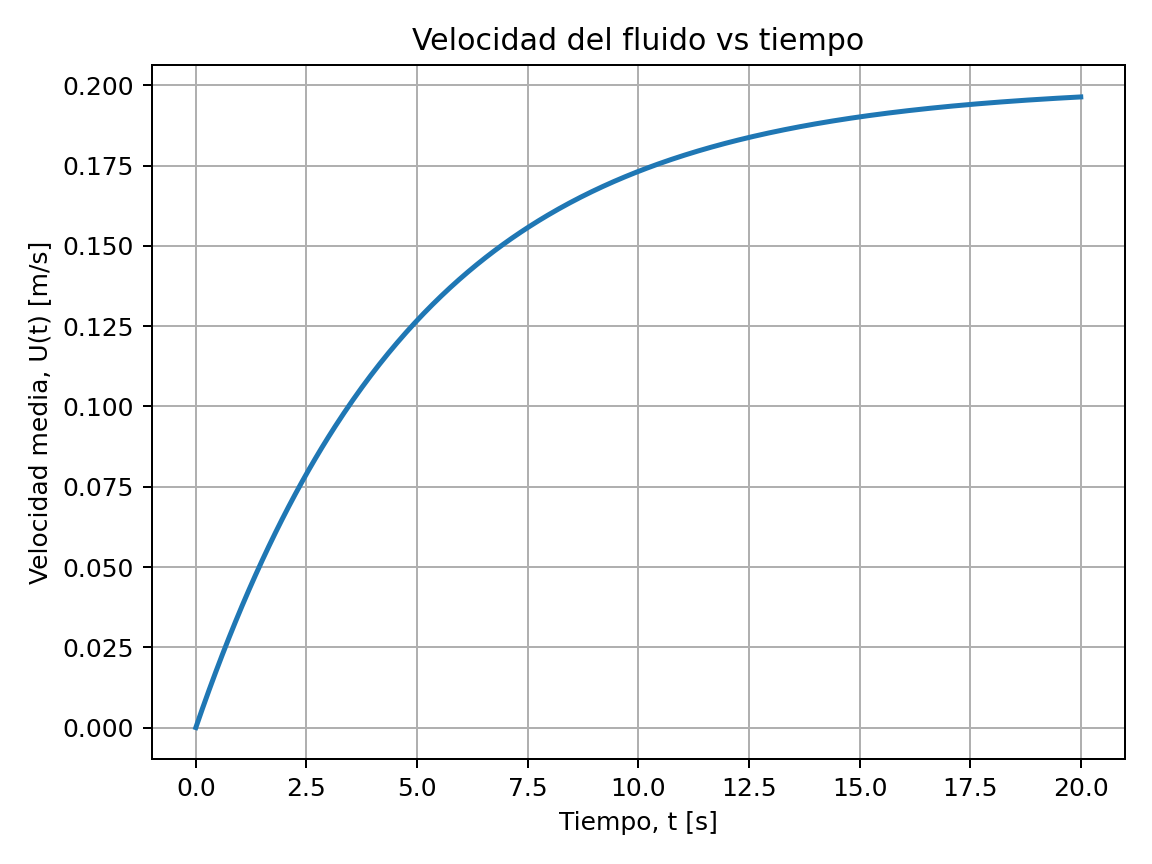
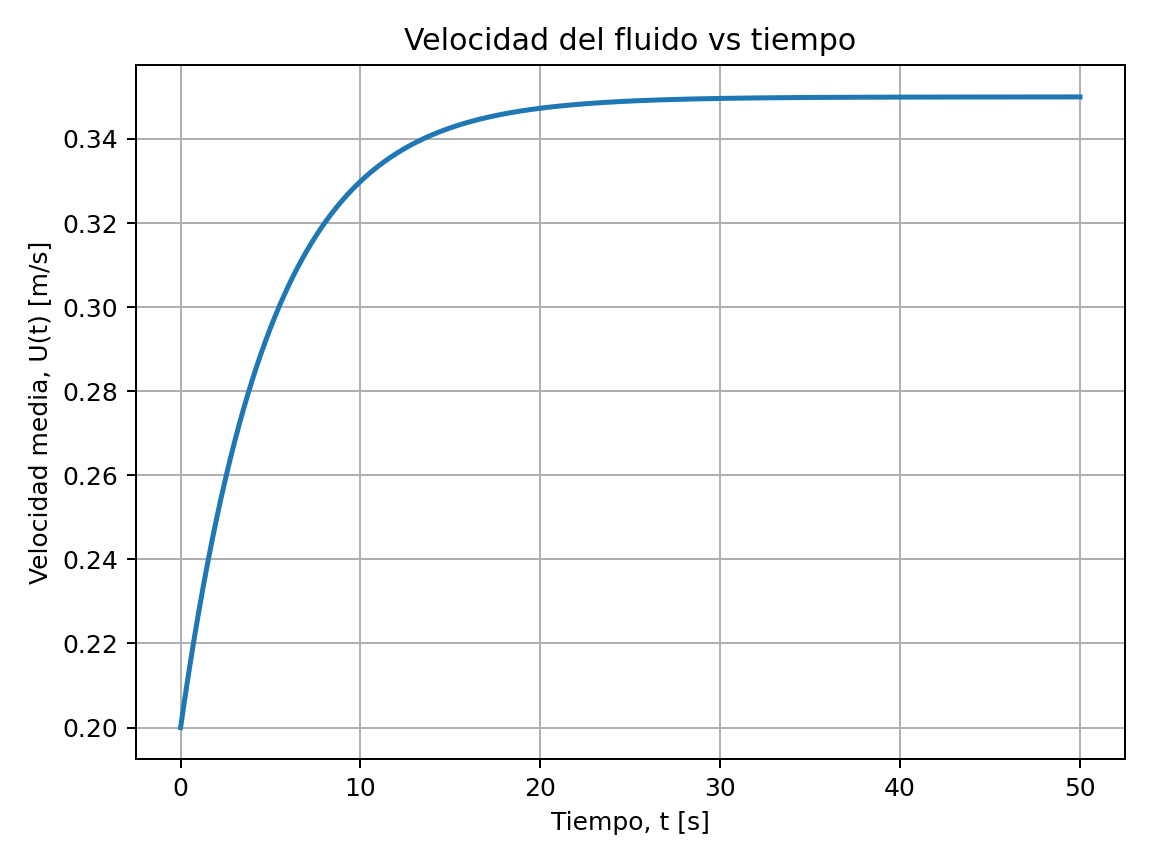
Wuuuu

diff --git a/Entrega 3/sim_logic.py b/Entrega 3/sim_logic.py
@@ -1,22 +1,19 @@
 # sim_logic.py
-# Modelo 0-D (mezcla bien agitada) con ventilador dinámico:
+# Modelo 0-D (mezcla bien agitada) con ventilador dinámico en velocidad:
 #   V = Lx*Ly (por unidad de profundidad)
-#   Q(t): caudal 2D del ventilador con rampa de 1er orden
-#     dQ/dt = (Q_target - Q)/tau_s
-#   U(t) = Q(t) / Ly
-#   Ecuación para fracción másica promedio c(t):
-#     d/dt (rho*V*c) = rho*Q(t)*(c_in - c) + m_dot(t)
-#   => dc/dt = (Q(t)/V)*(c_in - c) + m_dot(t)/(rho*V)
+#   Q(t) = U(t) * Ly
+#   dU/dt = (U_target - U)/tau_s     (si hay bloque "fan")
+#   c'(t) = (Q(t)/V)*(c_in - c) + m_dot(t)/(rho*V)
 
 import json
 import numpy as np
 
-def load_params(path="params.json"):
+def load_params(path="Entrega 3/params.json"):
     with open(path, "r") as f:
         return json.load(f)
 
 def gate_spray(params, t):
-    """1 si el spray está ON en el tiempo t; 0 si está OFF."""
+    """1 si el spray está ON en t; 0 si OFF. Si no hay 'spray', está siempre ON."""
     sp = params.get("spray", None)
     if sp is None:
         return 1.0
@@ -34,9 +31,9 @@ def simulate(params_path="params.json"):
     # Geometría y propiedades
     Lx = float(P["Lx"]); Ly = float(P["Ly"])
     V  = Lx * Ly                         # m^3 por unidad de profundidad (2D)
-    rho = float(P.get("rho", 1.2))       # kg/m^3 (aire aprox)
+    rho = float(P.get("rho", 1.2))       # kg/m^3 (aire aprox.)
 
-    # Ingreso / fuente
+    # Entrada / fuente
     c_in  = float(P.get("c_in", 0.0))
     m_dot = float(P.get("m_dot", 0.0))   # kg/s (2D)
 
@@ -45,15 +42,25 @@ def simulate(params_path="params.json"):
     t_end = float(P["time"]["t_end"])
     nsteps = int(np.ceil(t_end / dt))
 
-    # Dinámica del ventilador (si no hay bloque "fan", Q es constante)
+    # Dinámica del ventilador: preferir U0/U_target (m/s); fallback a Q0/Q_target (m^2/s)
     if "fan" in P:
-        Q  = float(P["fan"].get("Q0", 0.0))         # m^2/s (estado inicial)
-        Q_target = float(P["fan"].get("Q_target", Q))
-        tau_s = max(1e-9, float(P["fan"].get("tau_s", 3.0)))  # s
+        fan = P["fan"]
+        if "U0" in fan:       U = float(fan["U0"])
+        elif "Q0" in fan:     U = float(fan["Q0"]) / Ly
+        else:                 U = float(P.get("Q", 0.0)) / Ly  # si hubiera Q fijo
+
+        if "U_target" in fan: U_target = float(fan["U_target"])
+        elif "Q_target" in fan: U_target = float(fan["Q_target"]) / Ly
+        else:                 U_target = U
+
+        tau_s = max(1e-9, float(fan.get("tau_s", 3.0)))
+        dynamic_fan = True
     else:
-        Q = float(P["Q"])
-        Q_target = Q
-        tau_s = None  # sin dinámica: Q(t) = Q
+        # Sin bloque 'fan': velocidad fija a partir de Q
+        U = float(P["Q"]) / Ly
+        U_target = U
+        tau_s = None
+        dynamic_fan = False
 
     # Estado inicial
     c = 0.0
@@ -66,28 +73,27 @@ def simulate(params_path="params.json"):
     # Guardar t=0
     t_hist[0] = 0.0
     c_hist[0] = c
-    u_hist[0] = Q / Ly
+    u_hist[0] = U
 
     for n in range(1, nsteps + 1):
         t = n * dt
 
-        # 1) Actualizar caudal por dinámica del ventilador
-        if tau_s is not None:
-            # 1er orden hacia Q_target
-            dQdt = (Q_target - Q) / tau_s
-            Q = Q + dt * dQdt
-            Q = max(0.0, Q)  # sin flujo negativo
+        # 1) Ventilador: rampa 1er orden de U(t) hacia U_target
+        if dynamic_fan:
+            dUdt = (U_target - U) / tau_s
+            U = U + dt * dUdt
+            U = max(0.0, U)  # sin velocidades negativas
 
-        U = Q / Ly  # velocidad media
+        Q = U * Ly  # m^2/s
 
-        # 2) Fuente (spray) ON/OFF (evaluación centrada)
+        # 2) Spray ON/OFF (evaluación centrada)
         gate = gate_spray(P, t - 0.5*dt)
         m_src = m_dot * gate
 
-        # 3) ODE para c(t)
+        # 3) ODE de mezcla bien agitada para c(t)
         dc_dt = (Q / V) * (c_in - c) + m_src / (rho * V)
         c = c + dt * dc_dt
-        c = max(0.0, min(1.0, c))  # límites físicos
+        c = max(0.0, min(1.0, c))
 
         # 4) Guardar
         t_hist[n] = t

diff --git a/Entrega 3/run_sim.py b/Entrega 3/run_sim.py
@@ -1,5 +1,5 @@
 # run_sim.py
-# Resultados: (1) concentración promedio vs tiempo, (2) velocidad del fluido vs tiempo
+# (1) concentración en el tiempo  (2) velocidad del fluido en el tiempo
 import matplotlib.pyplot as plt
 from sim_logic import simulate
 
